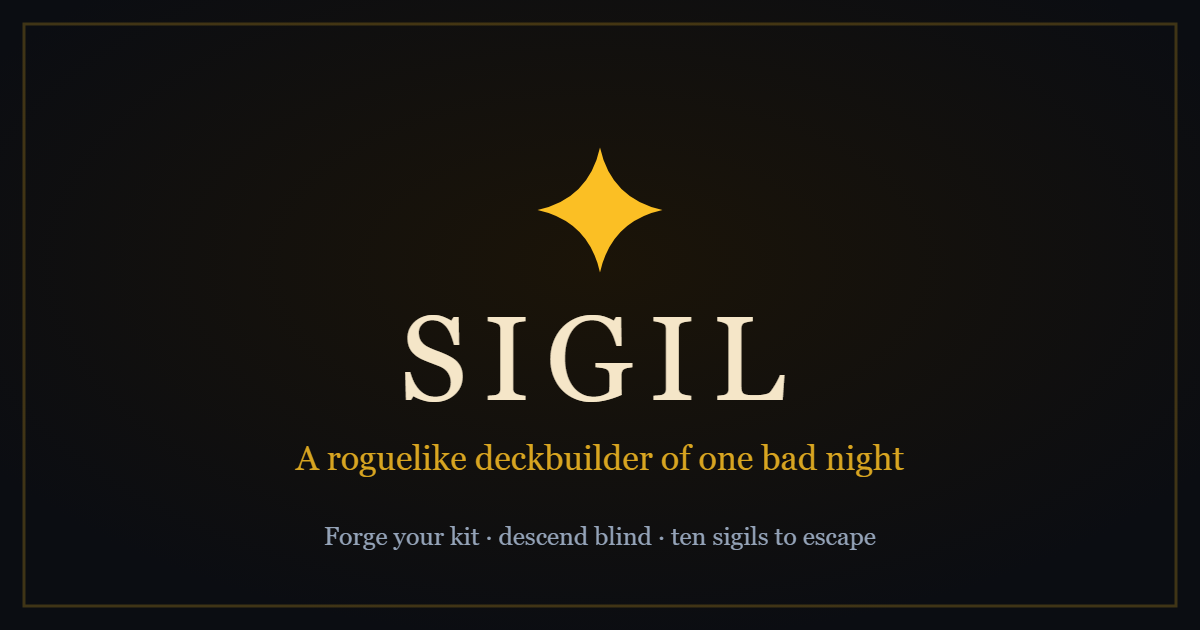
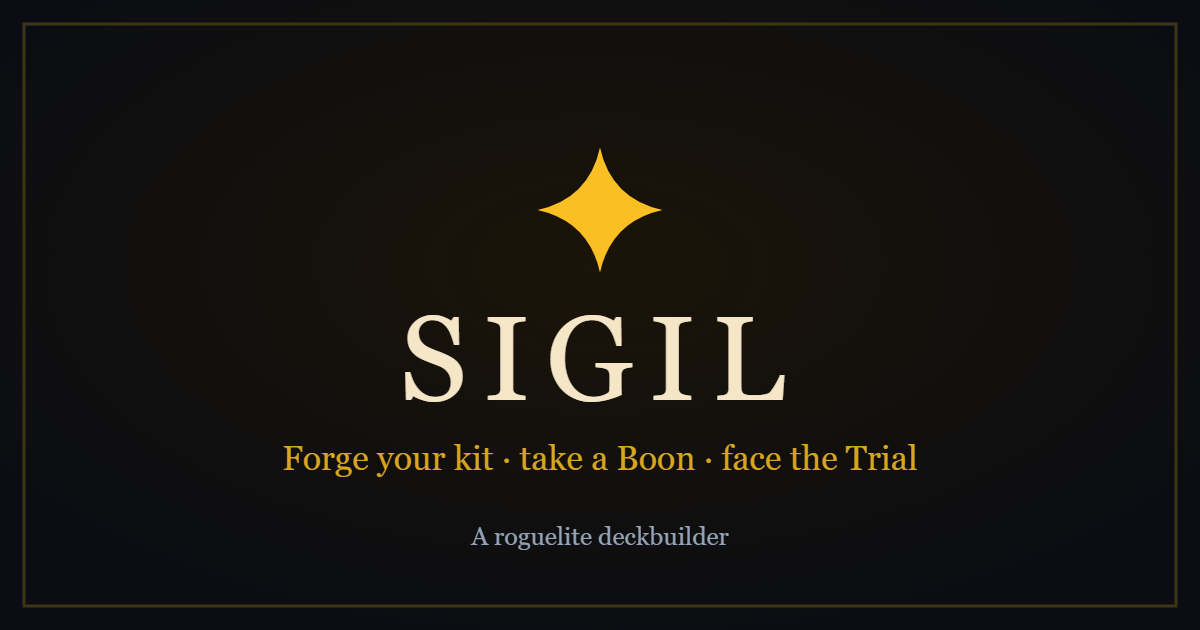
Call the game a roguelite deckbuilder on the social card and in the head
The share card, the meta description and the manifest all carried "A roguelike
deckbuilder after Scoundrel by Zach Gage and Kurt Bieg". Two changes to it:

- roguelike -> roguelite. Progression across descents (boons, forge, deck edits)
  is what the genre word is doing here, and roguelite is the accurate one.
- The lineage comes off the blurb. It is not lost: the Credits modal has carried
  a "Based on" section naming Scoundrel (2011), Zach Gage and Kurt Bieg since
  the rename, which is a place a player can actually reach.

og-image.png regenerated from the SVG. The itch cover carries the same wording
and landed with the standalone build commit.

Changed region(s): [[0.2158, 0.6937, 0.7708, 0.754], [0.2775, 0.8143, 0.74, 0.8746]]

diff --git a/index.html b/index.html
@@ -5,7 +5,7 @@
     <meta name="viewport" content="width=device-width, initial-scale=1.0, viewport-fit=cover" />
 
     <title>Sigil</title>
-    <meta name="description" content="A roguelike deckbuilder of one bad night. Forge your kit, descend blind, and earn ten sigils to escape." />
+    <meta name="description" content="A roguelite deckbuilder. Forge your kit, take a Boon, face the Trial, and earn ten sigils to escape." />
 
     <!-- Matches --color-dungeon in src/index.css, so the browser chrome does not
          sit at a different shade from the page behind it. -->
@@ -30,8 +30,8 @@
          origin, or to '' locally, which leaves these as relative paths. -->
     <meta property="og:type" content="website" />
     <meta property="og:site_name" content="Sigil" />
-    <meta property="og:title" content="Sigil — a roguelike deckbuilder of one bad night" />
-    <meta property="og:description" content="Forge your kit, descend blind, and earn ten sigils to escape. A card game where the dungeon deals and you decide how much to risk." />
+    <meta property="og:title" content="Sigil — forge your kit, take a Boon, face the Trial" />
+    <meta property="og:description" content="A roguelite deckbuilder. Your forged weapons and potions shuffle in with the dungeon's monsters. Earn ten sigils to escape." />
     <meta property="og:url" content="__SITE_URL__/" />
     <meta property="og:image" content="__SITE_URL__/og-image.png" />
     <meta property="og:image:width" content="1200" />
@@ -39,8 +39,8 @@
     <meta property="og:image:alt" content="The Sigil mark above the game's title." />
 
     <meta name="twitter:card" content="summary_large_image" />
-    <meta name="twitter:title" content="Sigil — a roguelike deckbuilder of one bad night" />
-    <meta name="twitter:description" content="Forge your kit, descend blind, and earn ten sigils to escape." />
+    <meta name="twitter:title" content="Sigil — forge your kit, take a Boon, face the Trial" />
+    <meta name="twitter:description" content="A roguelite deckbuilder. Earn ten sigils to escape." />
     <meta name="twitter:image" content="__SITE_URL__/og-image.png" />
   </head>
   <body>
